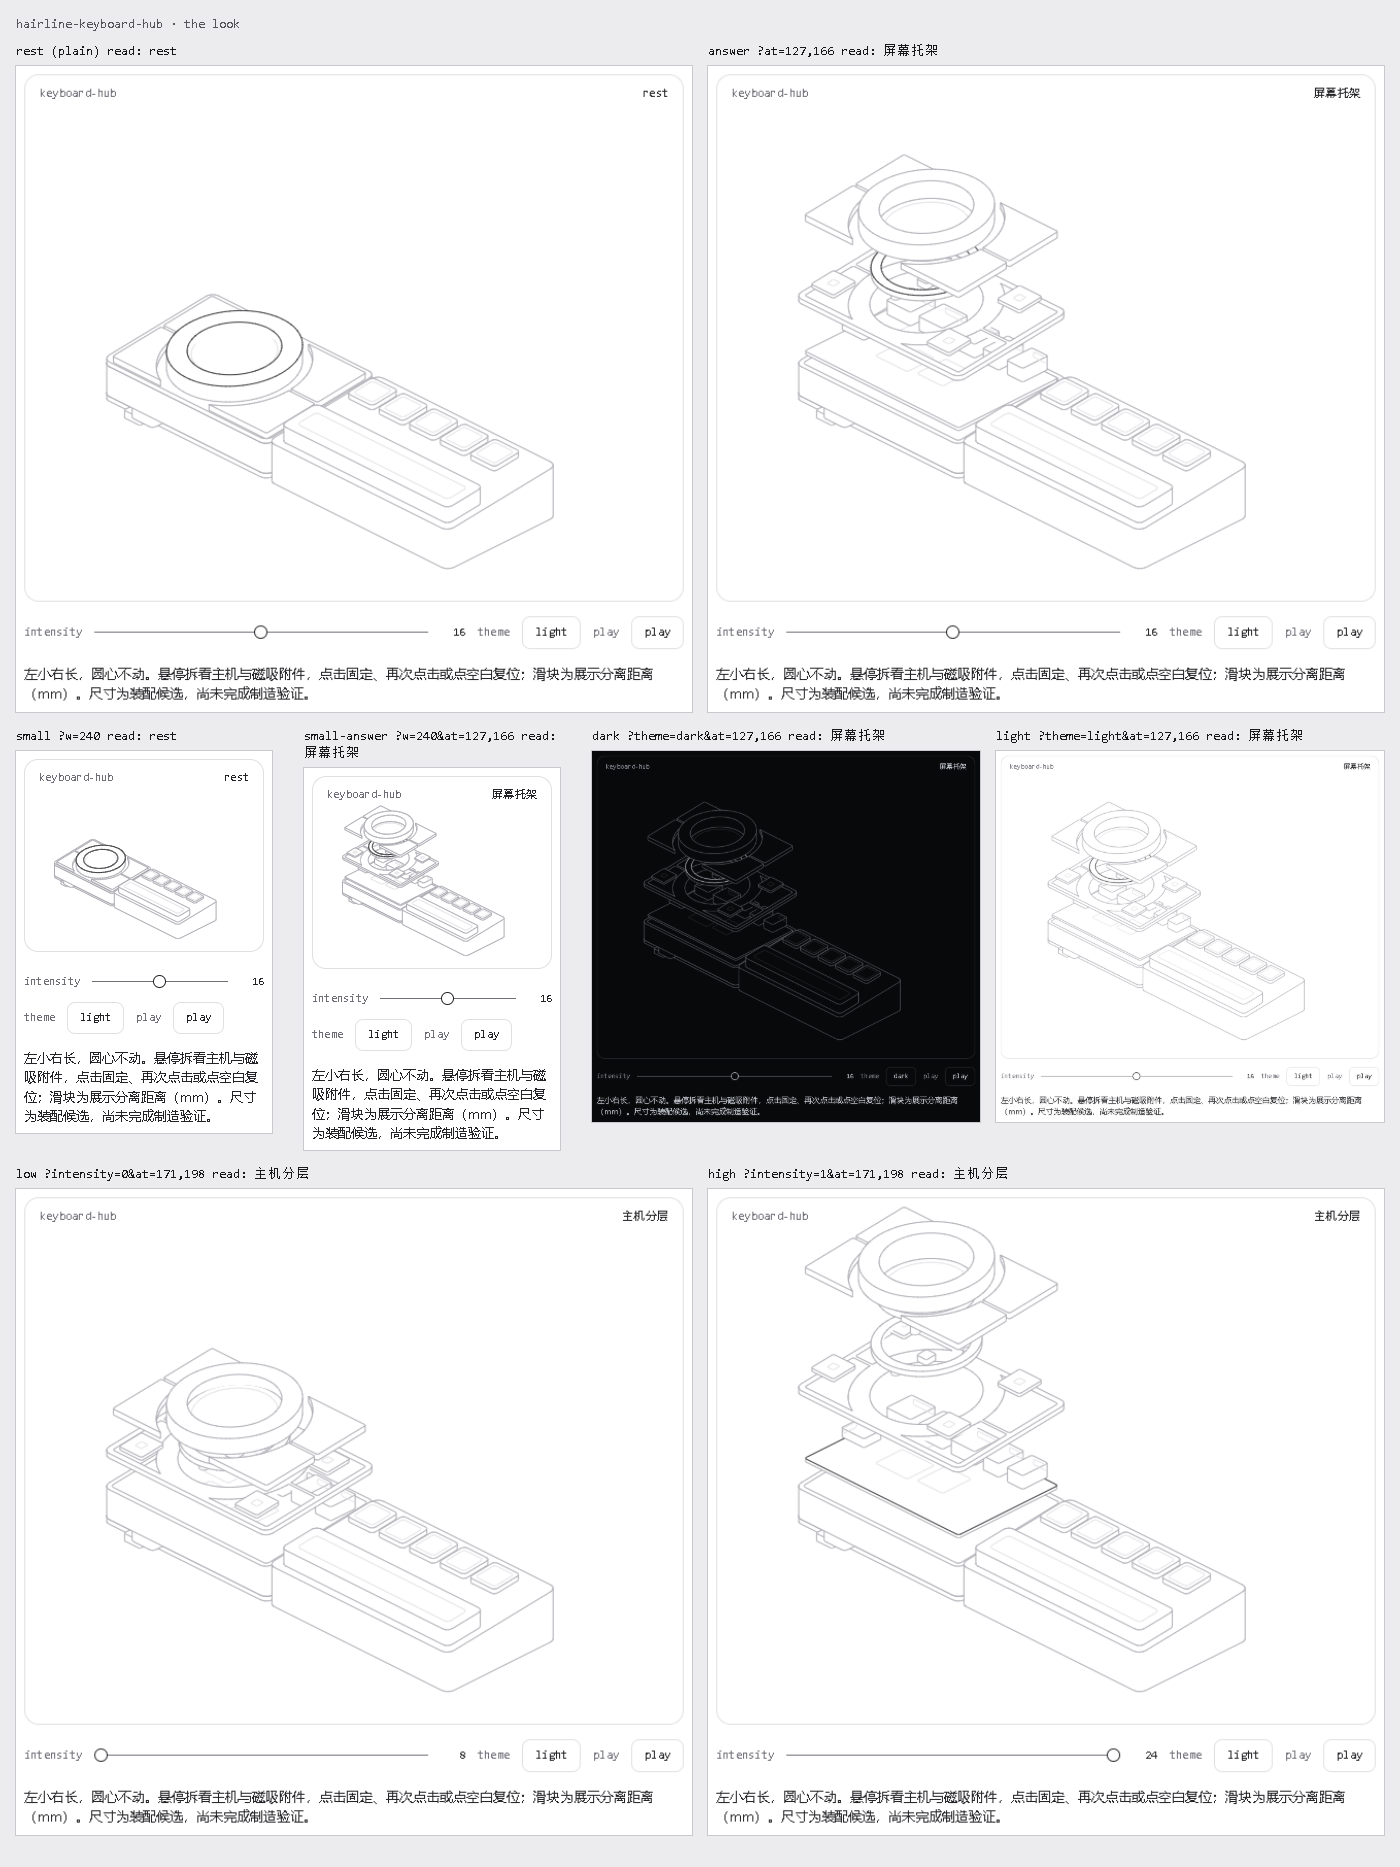
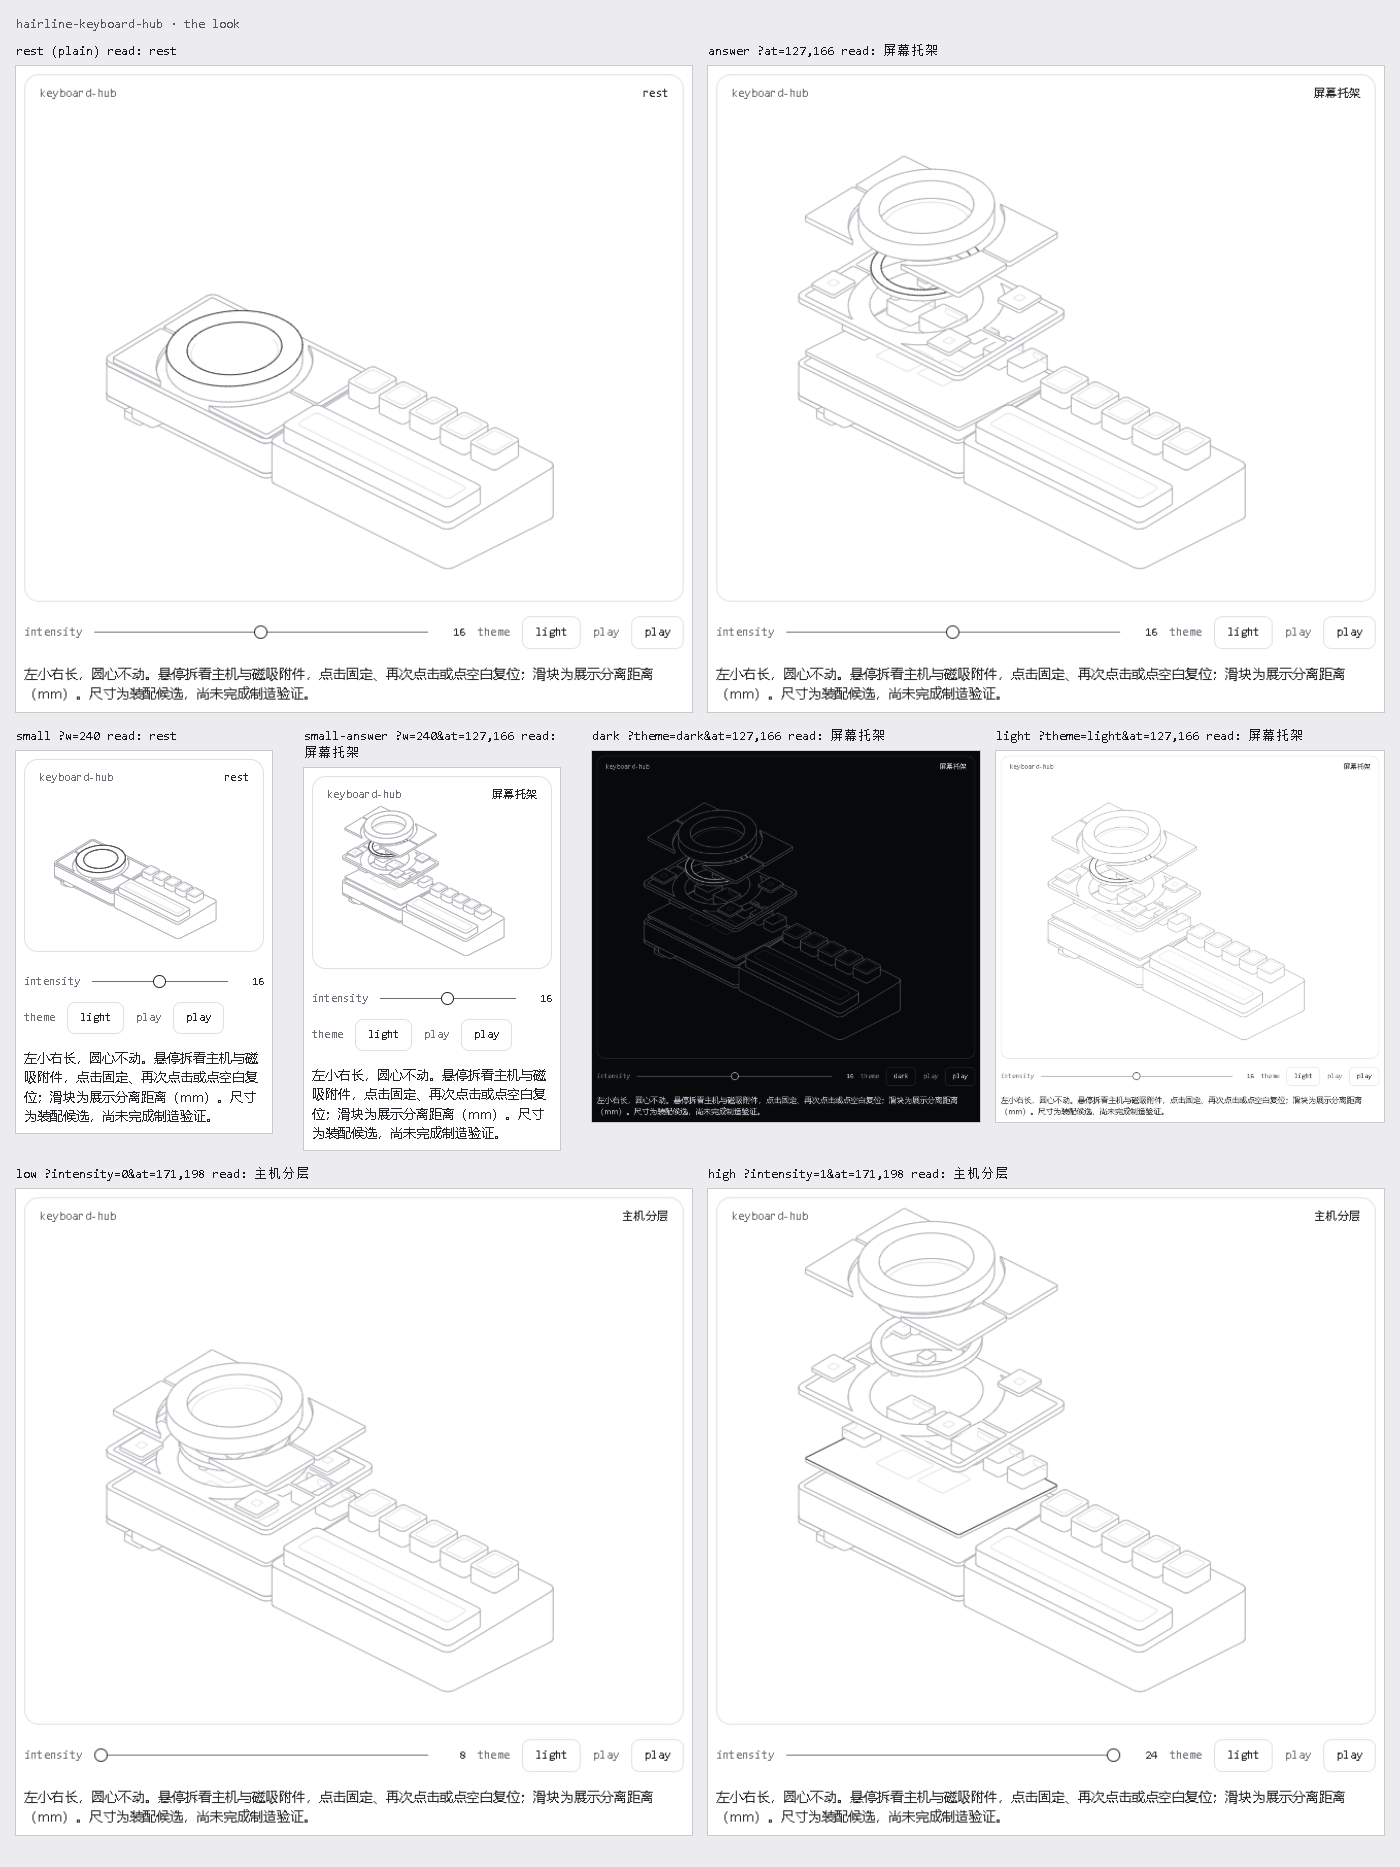
Make main soft keys nearly flush and preserve macro key height

diff --git a/visualization/hairline-keyboard-hub.html b/visualization/hairline-keyboard-hub.html
@@ -917,7 +917,7 @@ function mount({stage,svg,read},value) {
   add('上壳',RECT(-48,-34,54,34,4),17.6,20,2,{tilt:true,holes:[CIRCLE(25),...KEYS]});
   CENTERS.forEach(([x,y],i)=>{
     add('感应板'+(i+1),RECT(x-7,y-7,x+7,y+7),16,17.6,2.5,{tilt:true,marks2:[RECT(x-2,y-2,x+2,y+2,.5)]});
-    add('软键'+(i+1),KEYS[i],18,21,4.5,{tilt:true});
+    add('软键'+(i+1),KEYS[i],18,20.3,4.5,{tilt:true});
   });
   for(const a of [30,150,270]) {
     const x=19*Math.cos(a*Math.PI/180),y=19*Math.sin(a*Math.PI/180);
@@ -932,7 +932,7 @@ function mount({stage,svg,read},value) {
   add('Type-C公头',RECT(-22,-47,-12,-40,.8),6,9.8,0);
   add('STOP',RECT(32,-35,42,-32,1),10,14,0);
   add('五键模块',RECT(55,-34,167,34,4),0,20,0,{kind:'macro',tilt:true,flatBase:true});
-  for(let i=0;i<5;i++)add('宏键'+(i+1),RECT(66+i*19.05-8,12,66+i*19.05+8,28,2),20.6,23,0,{kind:'macro',tilt:true,marks2:[RECT(66+i*19.05-6,14,66+i*19.05+6,26,1.5)]});
+  for(let i=0;i<5;i++)add('宏键'+(i+1),RECT(66+i*19.05-8,12,66+i*19.05+8,28,2),21,29,0,{kind:'macro',tilt:true,marks2:[RECT(66+i*19.05-6,14,66+i*19.05+6,26,1.5)]});
   add('触控条',RECT(59,-30,163,-8,3),20,28,0,{kind:'strip',tilt:true,marks2:[RECT(64,-25,158,-13,2)]});
   for(const y of [-9,9]) {
     add('主机磁吸座',RECT(51.5,y-2,54,y+2,.8),10,14,0);
@@ -996,7 +996,7 @@ hairline({
   name:'keyboard-hub',
   means:'左小右长，圆心不动。悬停拆看主机与磁吸附件，点击固定、再次点击或点空白复位；滑块为展示分离距离（mm）。尺寸为装配候选，尚未完成制造验证。',
   rules:[1,3,4,6,7,8,9,10], range:[8,16,24],
-  tour:[[77,172],[127,166],[257,213],[217,232],null], mount,
+  tour:[[77,172],[127,166],[257,206],[217,232],null], mount,
 });
 </script>
 </body>

diff --git a/visualization/keyboard-hub.js b/visualization/keyboard-hub.js
@@ -40,7 +40,7 @@ function mount({stage,svg,read},value) {
   add('上壳',RECT(-48,-34,54,34,4),17.6,20,2,{tilt:true,holes:[CIRCLE(25),...KEYS]});
   CENTERS.forEach(([x,y],i)=>{
     add('感应板'+(i+1),RECT(x-7,y-7,x+7,y+7),16,17.6,2.5,{tilt:true,marks2:[RECT(x-2,y-2,x+2,y+2,.5)]});
-    add('软键'+(i+1),KEYS[i],18,21,4.5,{tilt:true});
+    add('软键'+(i+1),KEYS[i],18,20.3,4.5,{tilt:true});
   });
   for(const a of [30,150,270]) {
     const x=19*Math.cos(a*Math.PI/180),y=19*Math.sin(a*Math.PI/180);
@@ -55,7 +55,7 @@ function mount({stage,svg,read},value) {
   add('Type-C公头',RECT(-22,-47,-12,-40,.8),6,9.8,0);
   add('STOP',RECT(32,-35,42,-32,1),10,14,0);
   add('五键模块',RECT(55,-34,167,34,4),0,20,0,{kind:'macro',tilt:true,flatBase:true});
-  for(let i=0;i<5;i++)add('宏键'+(i+1),RECT(66+i*19.05-8,12,66+i*19.05+8,28,2),20.6,23,0,{kind:'macro',tilt:true,marks2:[RECT(66+i*19.05-6,14,66+i*19.05+6,26,1.5)]});
+  for(let i=0;i<5;i++)add('宏键'+(i+1),RECT(66+i*19.05-8,12,66+i*19.05+8,28,2),21,29,0,{kind:'macro',tilt:true,marks2:[RECT(66+i*19.05-6,14,66+i*19.05+6,26,1.5)]});
   add('触控条',RECT(59,-30,163,-8,3),20,28,0,{kind:'strip',tilt:true,marks2:[RECT(64,-25,158,-13,2)]});
   for(const y of [-9,9]) {
     add('主机磁吸座',RECT(51.5,y-2,54,y+2,.8),10,14,0);
@@ -119,5 +119,5 @@ hairline({
   name:'keyboard-hub',
   means:'左小右长，圆心不动。悬停拆看主机与磁吸附件，点击固定、再次点击或点空白复位；滑块为展示分离距离（mm）。尺寸为装配候选，尚未完成制造验证。',
   rules:[1,3,4,6,7,8,9,10], range:[8,16,24],
-  tour:[[77,172],[127,166],[257,213],[217,232],null], mount,
+  tour:[[77,172],[127,166],[257,206],[217,232],null], mount,
 });

diff --git a/visualization/README.md b/visualization/README.md
@@ -22,7 +22,7 @@
 
 左/右键面外缘−45/+51、共心R34.5凹弧，外角R1；源码离散轮廓面积约487.70/669.20 mm²，面积比约1:1.372。机械文档488.01/669.51是未倒圆积分值，两者差异来自倒圆和圆弧离散。
 
-按用户反馈降低按键：四软键高出面板1 mm（原3），右侧五键帽高出面板3 mm（原9）；平面轮廓、感应中心、环/屏幕高度不变。五键应配合下沉安装或薄型轴帽核对真实堆叠，不能直接把普通轴体缩短；这是外观目标，不是已验证的机械行程。
+按用户2026-10-10的要求，仅降低主体四软键：高出面板目标0.3 mm，基本齐平，保留用户规定的1 mm上限；右侧五个机械键保持原先9 mm露出高度。平面轮廓、感应中心和环/屏幕高度不变。软键的内部弹性结构及实际行程待验证，不能将外露高度直接当成按压行程。
 
 屏幕厚度按3.5预算；三点支撑、导向、防转和限位仅表达结构关系。PCB上的芯片、插座、触点和磁体是功能/包络占位；没有完成电气引脚、生产孔位、应力/FPC弯折、温升、USB信号或磁传感校准验证。显示图不能用作加工图或Gerber。
 

diff --git a/mechanical/dimensions-r2.md b/mechanical/dimensions-r2.md
@@ -19,8 +19,8 @@
 | 左侧①④ | 外边界X=−45 |
 | 右侧②③ | 外边界X=+51；相对左侧镜像向外增加6 |
 | 四键内侧凹弧 | 与屏幕同心，R34.5；至Ø60外环名义平面间隔4.5 |
-| 四软键露出面板高度 | 1；原展示3，按用户反馈降低2；内部弹性结构及行程待样件验证 |
-| 五机械键帽露出面板高度 | 3；原展示9，降低6；采用下沉安装/薄型轴帽研究方向，须按实物轴帽堆叠验证 |
+| 主体四软键露出面板高度 | 目标0.3，基本齐平；用户要求上限1；内部弹性结构及行程待样件验证 |
+| 五机械键帽露出面板高度 | 9，保持原先五键外形；本次降高仅针对主体四软键，实物轴帽堆叠仍待验证 |
 | 上下键间隔／外边界 | Y=[−31,−0.75]或[+0.75,+31]，间隔1.5；外侧角R1 |
 | 感应中心 | ①(−36,+22)、②(+36,+22)、③(+36,−22)、④(−36,−22) |
 

diff --git a/README.md b/README.md
@@ -24,6 +24,7 @@ ESP32-S3 圆屏控制台＋键盘直插 USB Hub。独立主机、右侧磁吸五
 | 环开口／可见边框 | Ø41.76／单边1.8 |
 | 四键感应中心 | (−36,+22)、(+36,+22)、(+36,−22)、(−36,−22) |
 | 左右键面 | 右侧向外多伸6；未倒圆面积比约1:1.37 |
+| 主体四软键外露高度 | 目标0.3，基本齐平；右侧五个机械键保持原高度 |
 | 右侧附件／拼合占地 | 112×68／215×68，均为展示包络 |
 
 **2026-10-09：资料研究与散件验证阶段。没有制造放行的PCB、CAD或整机验收结果。** GPIO及已验证状态见现有硬件记录。
